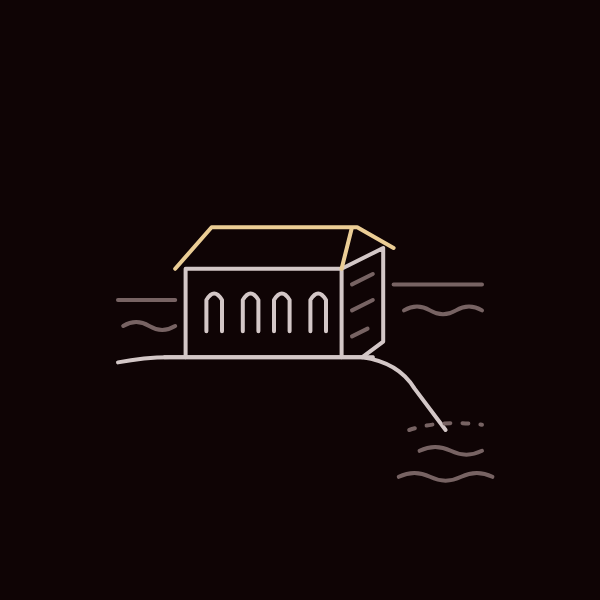
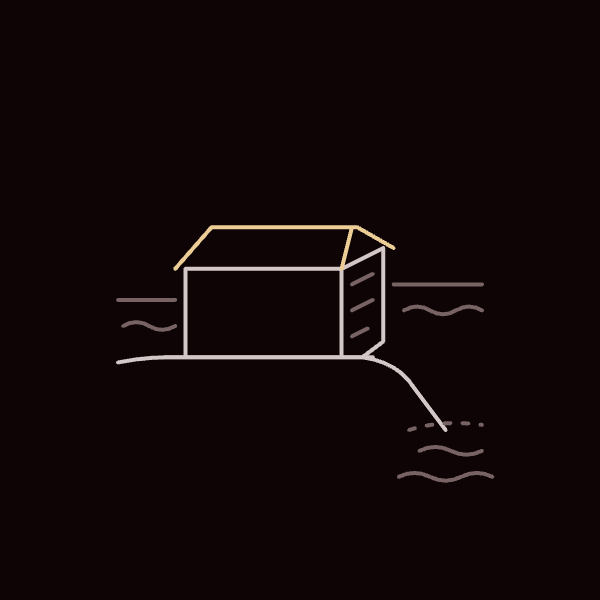
fix(art): drop the unconfirmed arched bays from the Pentos manse (#1293)
Claude-Session: https://claude.ai/code/session_018XDoqAtT67ZkYEKqrsdP9h

Changed region(s): [[0.33, 0.48, 0.57, 0.57]]

diff --git a/src/data/series/game-of-thrones/art/places.ts b/src/data/series/game-of-thrones/art/places.ts
@@ -83,10 +83,6 @@ const PENTOS: Stroke[] = [
   { d: 'M10 124 Q20 122 30 122 H104 Q118 124 124 134 L136 150' },
   { d: 'M36 122 V88 H96 V122 M96 88 L112 80 V116 L104 122' },
   { d: 'M32 88 L46 72 H102 L116 80 M100 72 L96 88', role: 'accent' },
-  {
-    d: 'M44 112 V100 Q47 95 50 100 V112 M58 112 V100 Q61 95 64 100 V112 M70 112 V100 Q73 95 76 100 V112 M84 112 V100 Q87 95 90 100 V112',
-    role: 'soft',
-  },
   { d: 'M100 94 l8 -4 M100 104 l8 -4 M100 114 l6 -3', role: 'ambient' },
   { d: 'M28 122 H108', role: 'soft' },
   { d: 'M122 150 Q134 146 150 148', role: 'ambient', dashed: true },
